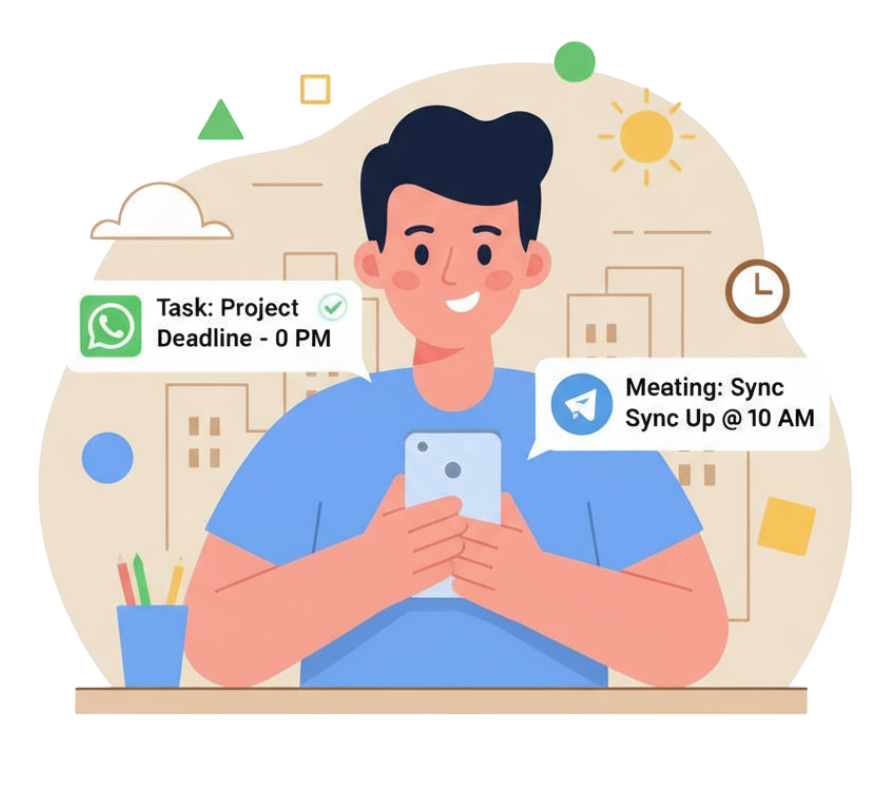
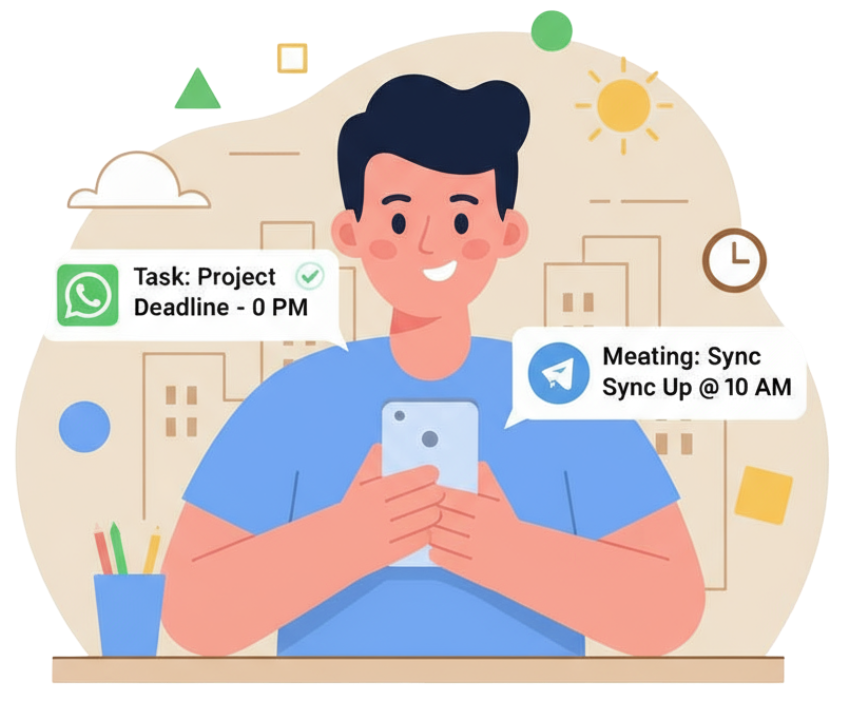
feat: add feature section

diff --git a/src/app/(user)/page.tsx b/src/app/(user)/page.tsx
@@ -4,10 +4,18 @@ export default async function Home() {
   return (
     <div className="pt-20">
       {/* Hero Section */}
-      <section className="hero mx-auto max-w-6xl py-6 lg:py-12 px-4" id="home">
-        <div className="flex flex-col-reverse lg:flex-row items-center justify-between text-center lg:text-left gap-y-6 lg:gap-y-0">
+      <section
+        className="hero mx-auto max-w-6xl py-6 lg:py-12 px-4 mt-6"
+        id="home"
+      >
+        <div className="flex flex-col-reverse lg:flex-row items-center justify-between text-center lg:text-left gap-y-12 lg:gap-y-0">
           <div className="flex flex-col gap-y-10 w-full lg:w-1/2">
             <div className="flex flex-col gap-y-3">
+              <div className="block mb-2">
+                <span className="bg-amber-100 text-amber-800 px-4 py-2 rounded-full text-sm font-semibold">
+                  ✨ Produktivitas Maksimal
+                </span>
+              </div>
               <h1 className="text-gray font-['Clash_Display'] text-4xl md:text-5xl lg:text-[70px] leading-tight md:leading-tight lg:leading-none">
                 Jangan Lewatkan <br className="hidden md:block" />
                 Deadline Lagi.
@@ -24,13 +32,13 @@ export default async function Home() {
             <div className="flex flex-col md:flex-row gap-y-4 md:gap-y-0 md:gap-x-6 items-center justify-center lg:justify-start">
               <a
                 href="#"
-                className="text-base md:text-lg font-semibold bg-primary text-white py-3 md:py-4 px-8 md:px-10 rounded-full hover:bg-gray"
+                className="text-sm md:text-lg font-semibold bg-primary text-white py-3 md:py-4 px-8 md:px-10 rounded-full hover:bg-gray"
               >
                 Mulai Gratis
               </a>
               <a
                 href="#"
-                className="flex gap-x-2 font-semibold text-primary items-center"
+                className="flex gap-x-2 text-sm md:text-lg font-semibold text-primary items-center"
               >
                 <svg
                   width="25"
@@ -101,11 +109,63 @@ export default async function Home() {
             <Image
               src="/images/ilustrasition_1.png"
               alt="Ilustrasition Image"
-              width={450}
-              height={450}
-              className="object-cover w-full max-w-[450px] h-auto"
+              width={550}
+              height={550}
+              className="object-cover w-full max-w-[550px] h-auto"
               priority
             />
+          </div>
+        </div>
+      </section>
+
+      {/* Fitur Section */}
+      <section
+        className="feature mx-auto max-w-6xl py-6 lg:py-12 px-4"
+        id="features"
+      >
+        <div className="flex flex-col py-8 md:py-12">
+          <h3 className="text-base md:text-lg text-primary font-medium pb-2">
+            Fitur Unggulan Ingetin
+          </h3>
+          <h2 className="text-xl md:text-3xl font-medium leading-relaxed text-gray-700 mb-6 md:mb-10">
+            Fitur yang Membuat Hidup Anda Jauh Lebih Mudah.
+          </h2>
+          <div className="grid grid-cols-1 md:grid-cols-2 lg:grid-cols-3 gap-6 md:gap-10 lg:gap-x-16">
+            <div className="flex flex-col gap-y-3 md:gap-y-5 bg-primary p-4 md:p-6 rounded-md shadow-2xl">
+              <p className="text-3xl md:text-4xl text-primary">🎯</p>
+              <div className="flex flex-col">
+                <p className="text-base md:text-lg font-medium leading-loose text-gray-50">
+                  Reminder Otomatis & Terjadwal
+                </p>
+                <p className="text-sm md:text-base text-gray-200">
+                  Atur waktu reminder sesuai kebutuhan Anda dengan mudah.
+                </p>
+              </div>
+            </div>
+            <div className="flex flex-col gap-y-3 md:gap-y-5 bg-gray-100 p-4 md:p-6 rounded-md shadow-2xl">
+              <p className="text-2xl md:text-3xl text-primary">💬</p>
+              <div className="flex flex-col">
+                <p className="text-base md:text-lg font-medium text-gray-600 leading-loose">
+                  Notifikasi Real-Time
+                </p>
+                <p className="text-sm md:text-base text-gray-500">
+                  Terima pengingat langsung dari WhatsApp dan Telegram aplikasi
+                  yang Anda gunakan setiap hari.
+                </p>
+              </div>
+            </div>
+            <div className="flex flex-col gap-y-3 md:gap-y-5 bg-primary p-4 md:p-6 rounded-md shadow-2xl">
+              <p className="text-2xl md:text-3xl text-primary">📅</p>
+              <div className="flex flex-col">
+                <p className="text-base md:text-lg font-medium text-gray-50 leading-loose">
+                  Integrasi dengan Kalender
+                </p>
+                <p className="text-sm md:text-base text-gray-300">
+                  Hubungkan dengan kalender digital agar semua jadwal tetap
+                  teratur.
+                </p>
+              </div>
+            </div>
           </div>
         </div>
       </section>
